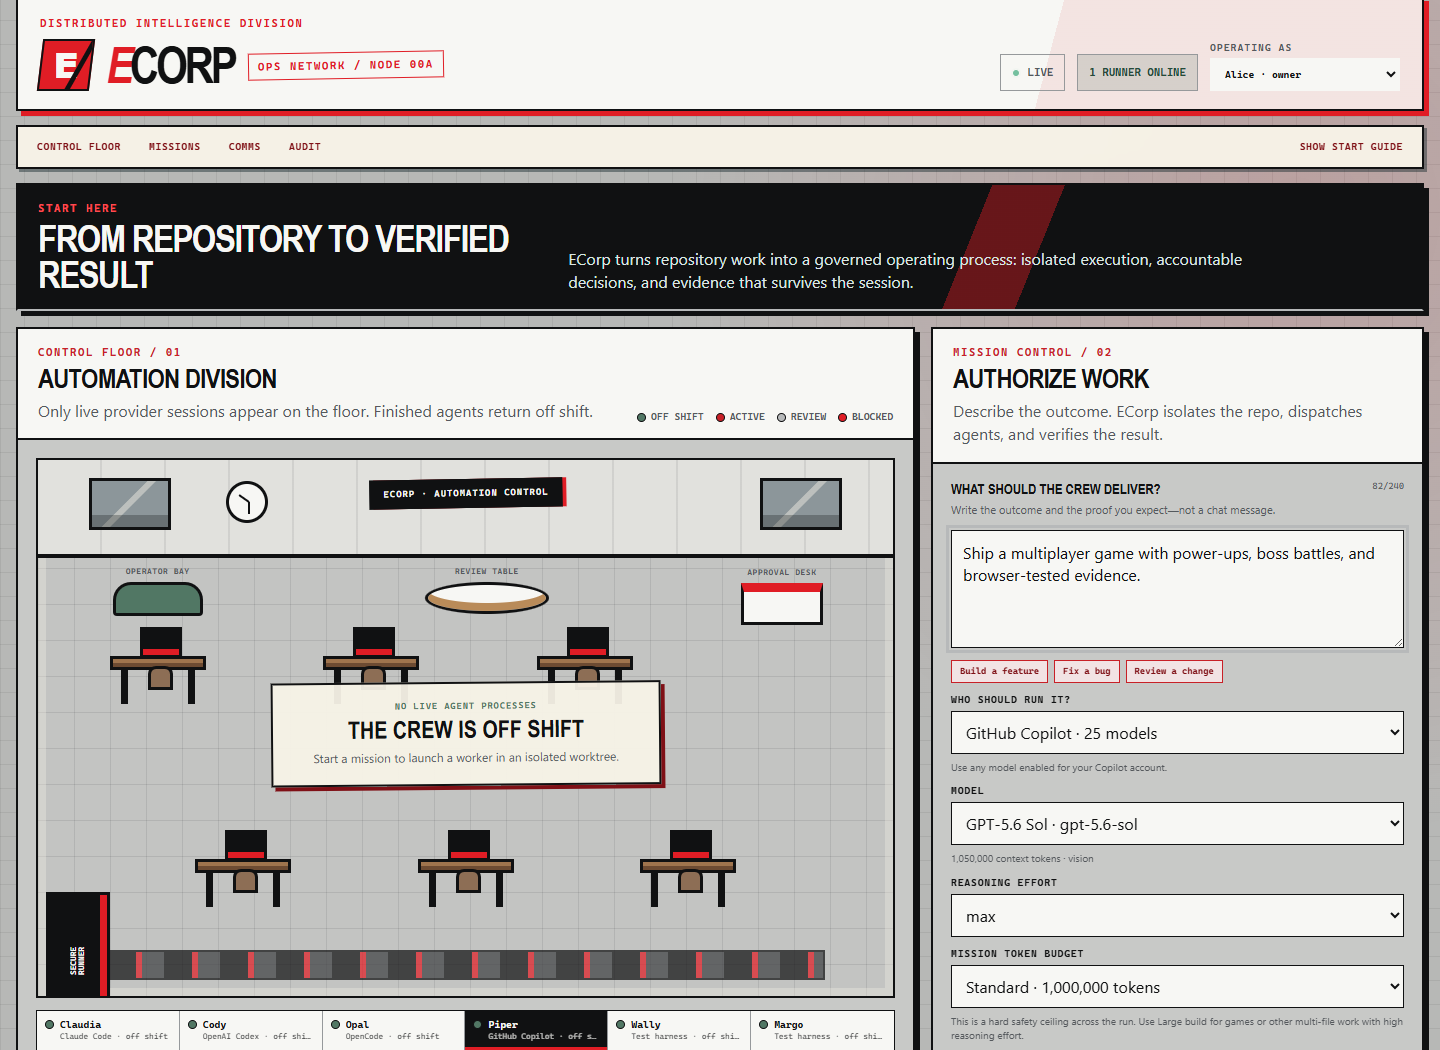
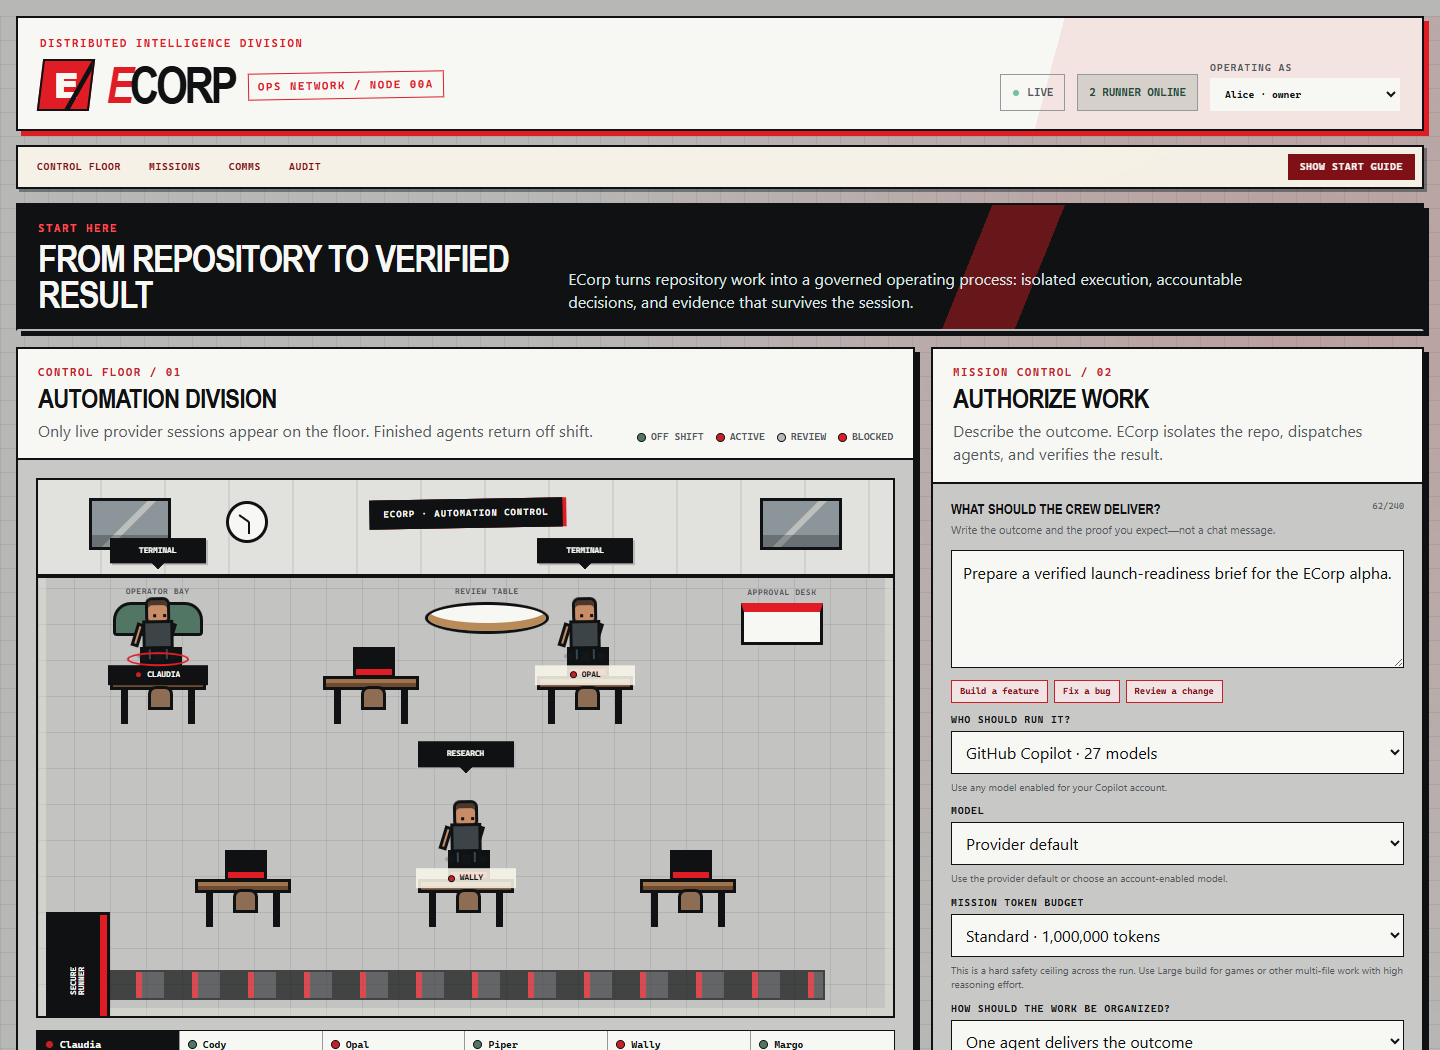
docs: add Relay mascot and live agent hero

diff --git a/README.md b/README.md
@@ -1,5 +1,7 @@
 <div align="center">
 
+<img src="docs/assets/ecorp-relay-mascot.png" width="176" alt="Relay, the ECorp pixel-art operations mascot">
+
 <h1>ECORP</h1>
 
 <h3>Run an AI company on top of your codebase.</h3>
@@ -24,6 +26,10 @@ evidence-backed results.
 </div>
 
 ![ECorp operations control room](docs/assets/ecorp-control-room.png)
+
+<p align="center"><sub><strong>LIVE CONTROL FLOOR:</strong> concurrent Claude Code and OpenCode adapter sessions plus a deterministic worker, projected from actual runner state.</sub></p>
+
+<p align="center"><strong>Meet Relay.</strong> Part dispatcher, part safety officer, always asking for evidence.</p>
 
 ## Not another agent chat. An operating system for agent work.
 
